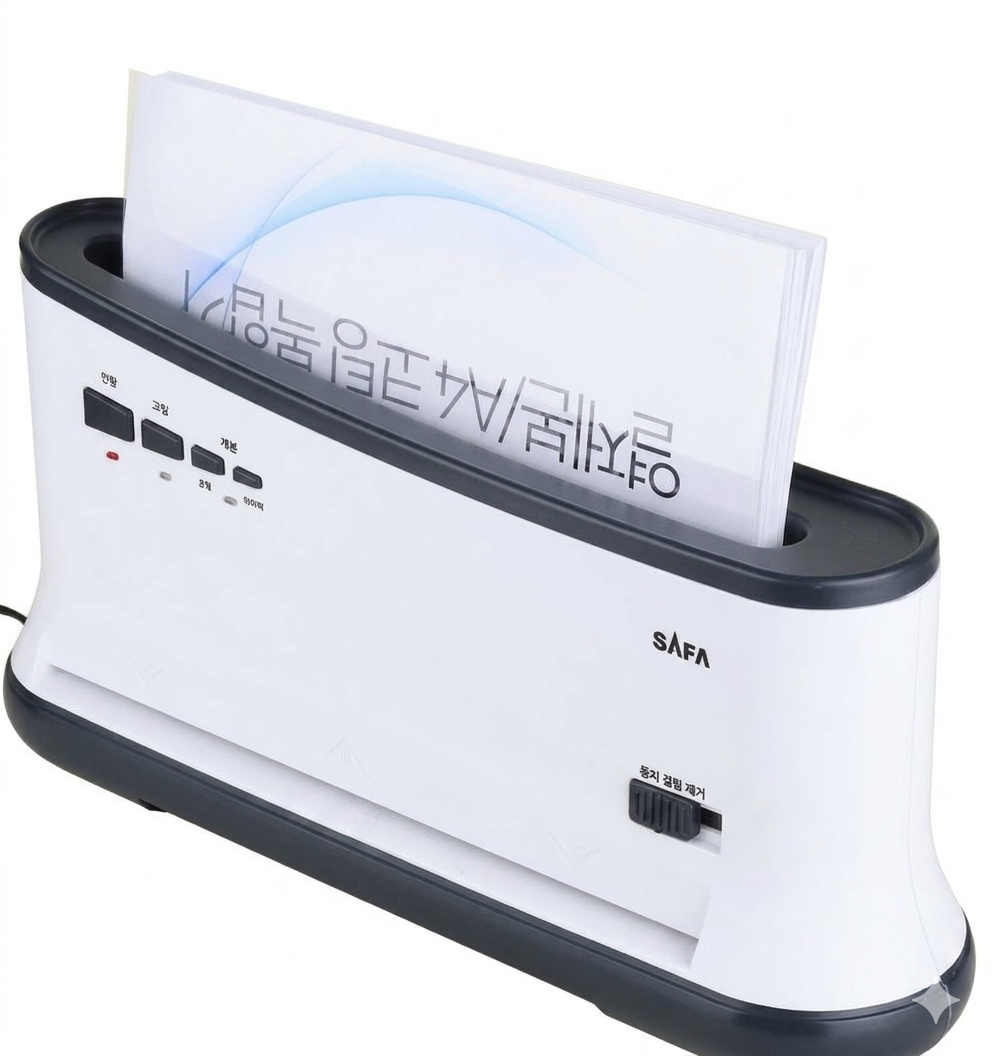
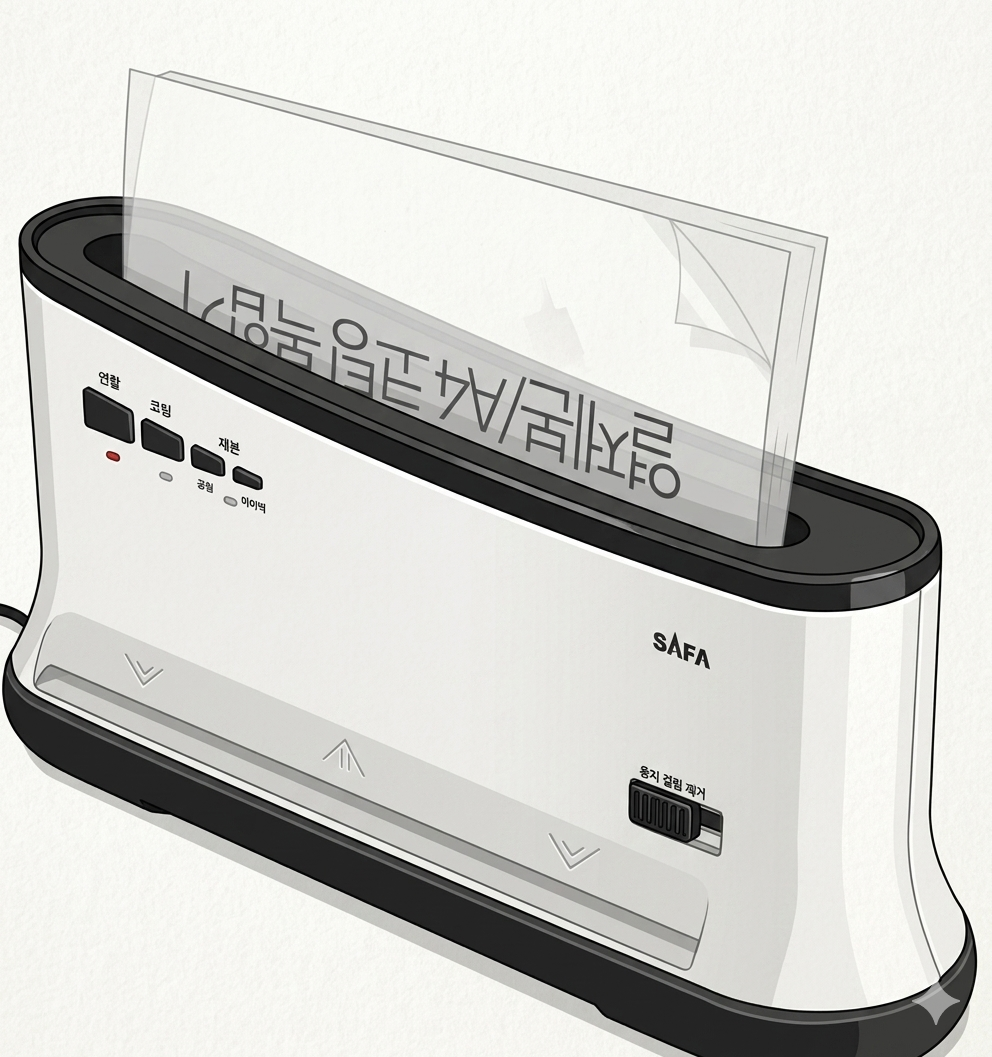
fix: 제본 안내 사진을 AI 일러스트 버전으로 교체
판매처 실사진 대신 일러스트 풍으로 변환한 이미지 사용 (저작권 우려 없이
동일한 사용법 안내 가능). 버튼 클로즈업 이미지 추가.

diff --git a/services.html b/services.html
@@ -372,18 +372,19 @@ footer{background:#111827;color:#9CA3AF;padding:60px 6% 32px}
       </div>
     </div>
 
-    <!-- 제본기 & 표지 안내 사진 -->
+    <!-- 제본기 & 표지 안내 그림 -->
     <div class="bind-visual">
       <div class="bind-visual-card">
         <div class="bind-visual-label">🖨 SAFA 제본기 — 표지째로 세워서 투입구에 넣기</div>
         <img src="images/bind/safa-insert.png" alt="SAFA 제본기 투입구에 제본표지를 세워서 넣는 모습" style="width:100%;height:auto;border-radius:8px">
-        <p style="font-size:12px;color:var(--text3);margin-top:10px;line-height:1.7">인쇄물을 표지 안에 끼운 뒤, <strong style="color:var(--text2)">막힌 부분(제본선)이 아래로 가도록</strong> 세워서 위쪽 투입구에 넣어 주세요.</p>
+        <p style="font-size:12px;color:var(--text3);margin:10px 0;line-height:1.7">인쇄물을 표지 안에 끼운 뒤, <strong style="color:var(--text2)">막힌 부분(제본선)이 아래로 가도록</strong> 세워서 위쪽 투입구에 넣어 주세요.</p>
+        <img src="images/bind/safa-buttons.png" alt="SAFA 제본기 버튼 — 코팅, 제본(온열/타이머)" style="width:100%;height:auto;border-radius:8px">
       </div>
       <div class="bind-visual-card">
         <div class="bind-visual-label">📘 열제본표지 안내</div>
-        <div style="display:grid;grid-template-columns:1fr 1fr;gap:10px">
-          <img src="images/bind/cover-closed.JPG" alt="열제본표지 완성 모습" style="width:100%;height:auto;border-radius:8px;grid-column:1/3">
-          <img src="images/bind/cover-structure.png" alt="열제본표지 단면 구조 — PET 투명 비닐커버, 종이커버, 표지규격(제본 본드 부분)" style="width:100%;height:auto;border-radius:8px">
+        <img src="images/bind/cover-structure.png" alt="열제본표지 단면 구조 — PET 투명 비닐커버, 종이커버, 표지규격(제본 본드 부분)" style="width:100%;height:auto;border-radius:8px">
+        <div style="display:grid;grid-template-columns:1fr 1fr;gap:10px;margin-top:10px">
+          <img src="images/bind/cover-closed.png" alt="열제본표지 앞면 비닐커버 · 뒷면 종이커버" style="width:100%;height:auto;border-radius:8px">
           <img src="images/bind/cover-colors.png" alt="열제본표지 색상 종류" style="width:100%;height:auto;border-radius:8px">
         </div>
       </div>
